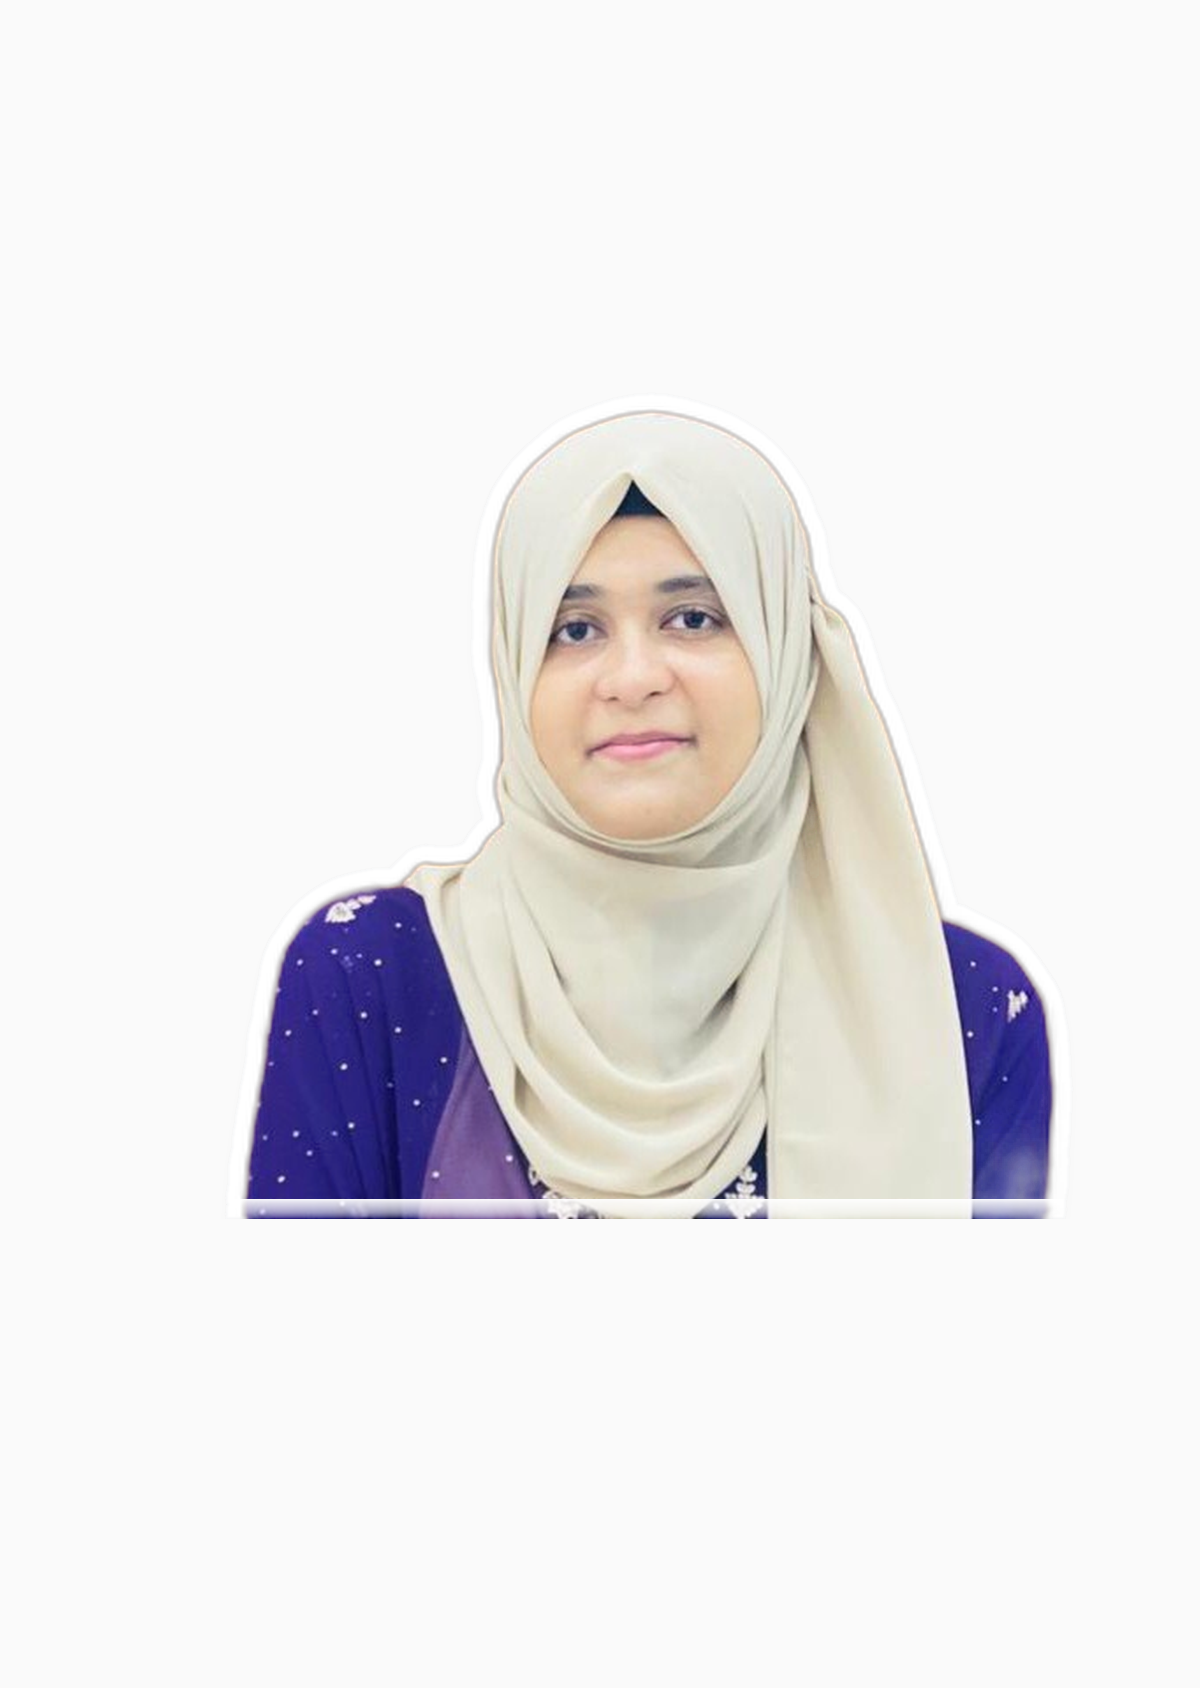
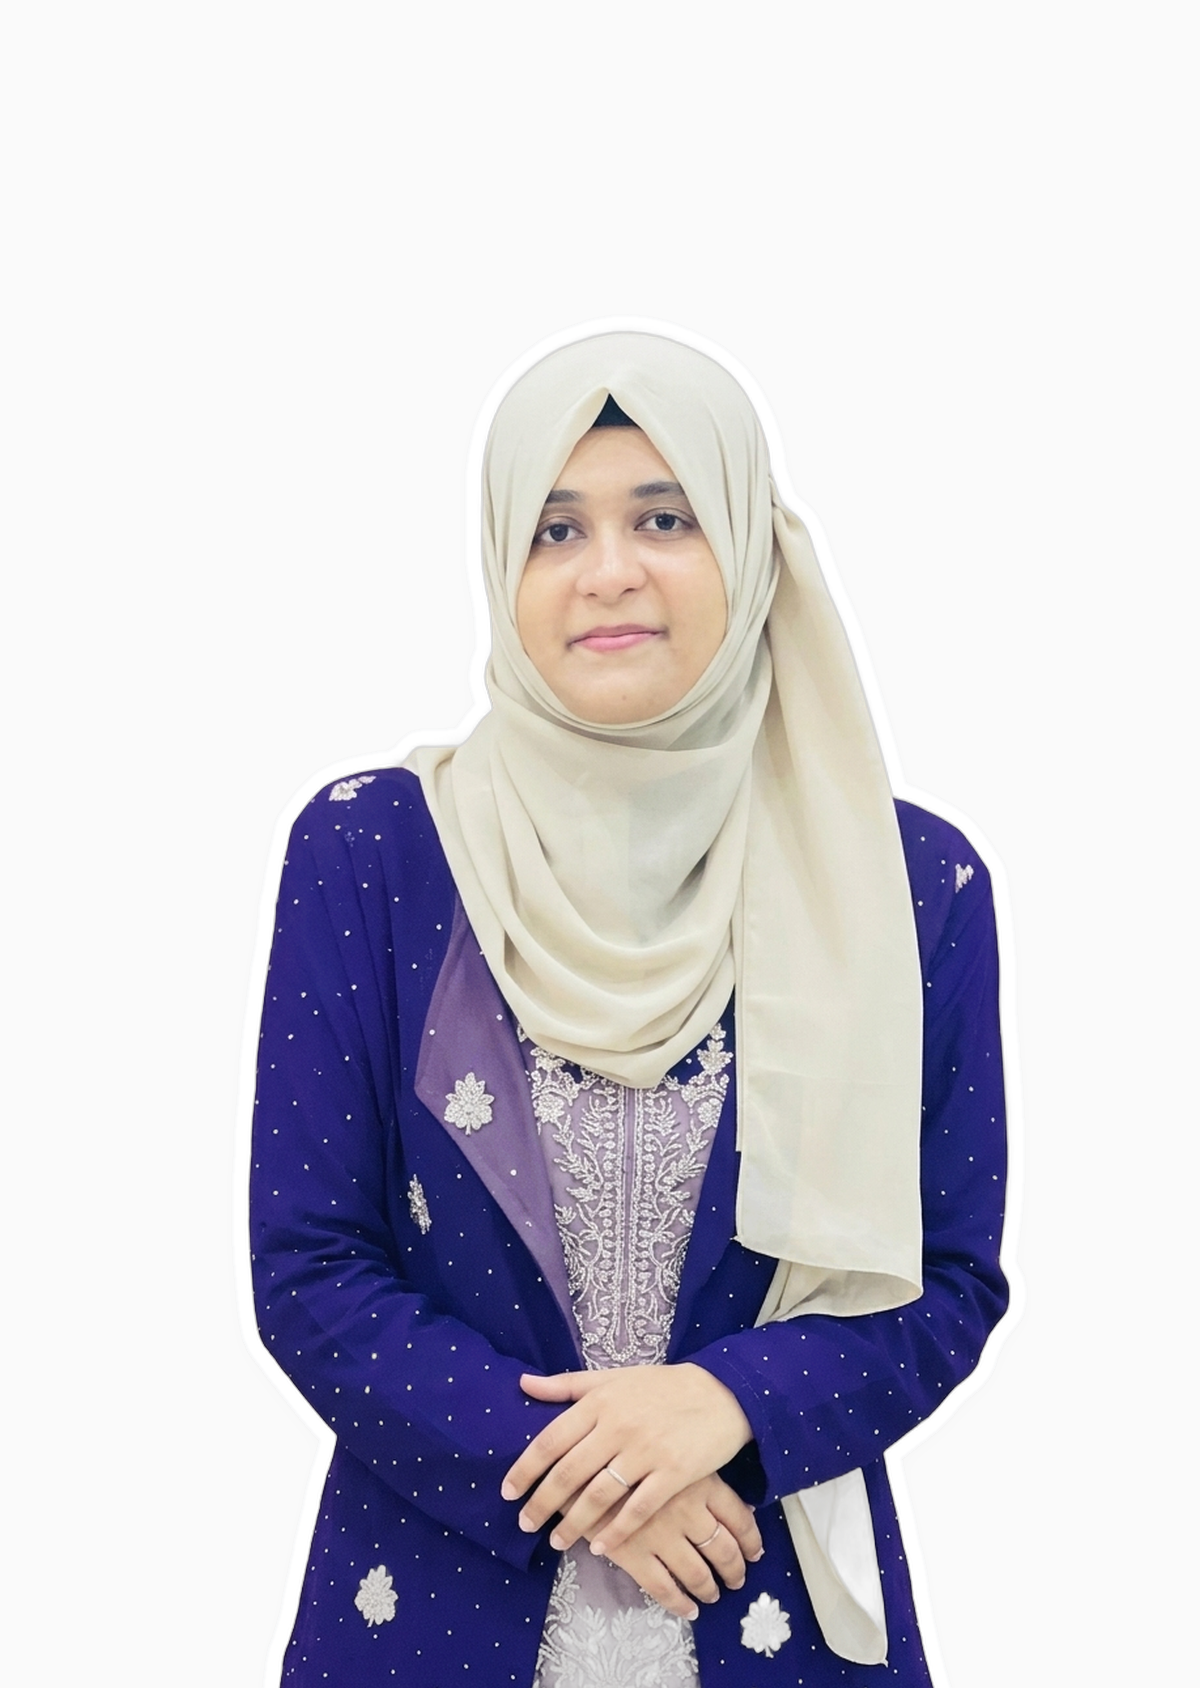
fix(team): extend Rifa portrait to full torso reaching bottom edge of badge card

Changed region(s): [[0.185, 0.2156, 0.8942, 1.0]]

diff --git a/lanyardStage.js b/lanyardStage.js
@@ -868,7 +868,7 @@ export function initUnifiedLanyardStage() {
       name: 'Rifa',
       role: 'Team Lead',
       handle: '@rifa',
-      front: '/assets/badge_rifa_color.png?v=20261114_color', 
+      front: '/assets/badge_rifa_color.png?v=20261115_full_bottom', 
       strap: '#0077ff',
       color: '#ffffff',
       metal: 'silver',
